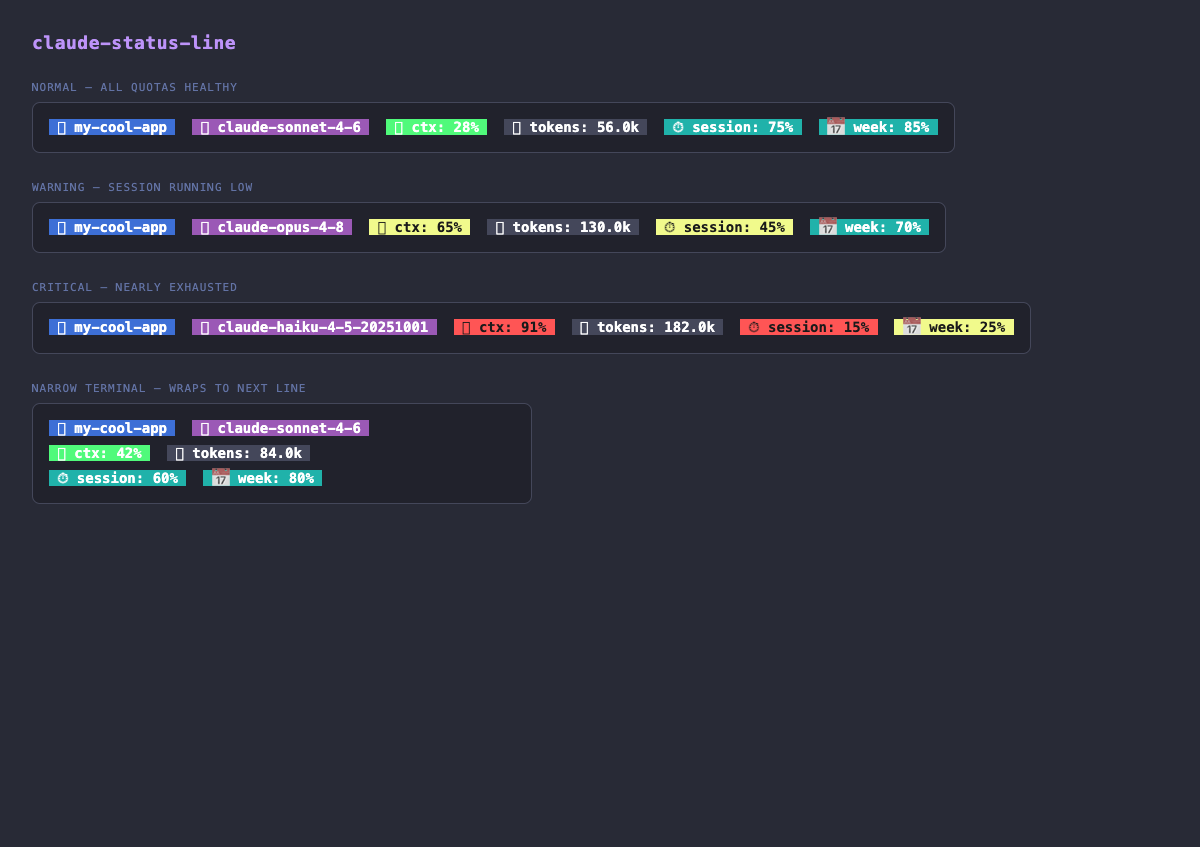
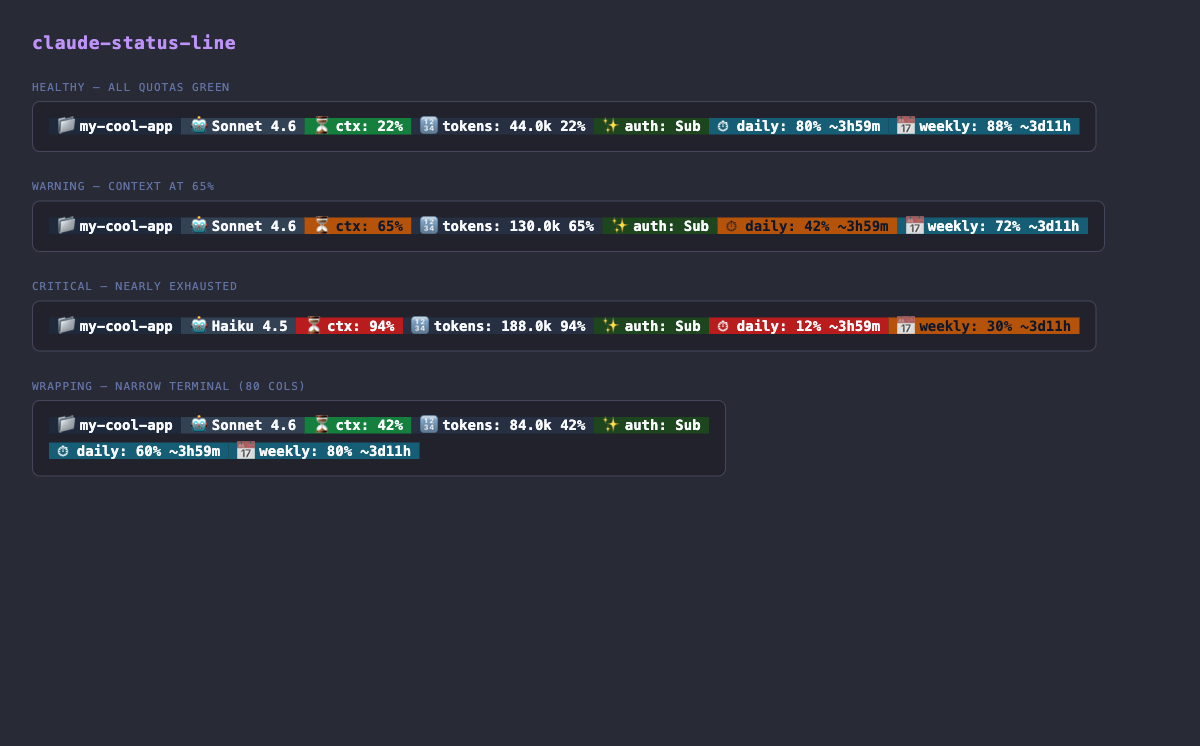
master

Changed region(s): [[0.0308, 0.2158, 0.925, 0.4625], [0.0308, 0.0308, 0.925, 0.185], [0.0308, 0.4933, 0.6167, 0.6166]]

diff --git a/scripts/preview.ts b/scripts/preview.ts
@@ -7,31 +7,36 @@
 
 import { StatusParser } from '../src/statusParser.ts';
 import { StatusRenderer } from '../src/statusRenderer.ts';
+import { ConfigManager } from '../src/configManager.ts';
 import * as fs from 'fs';
 import * as path from 'path';
 
+const NOW_SECS = Math.floor(Date.now() / 1000);
+const RESET_DAILY = NOW_SECS + 4 * 3600;
+const RESET_WEEKLY = NOW_SECS + 3 * 86400 + 12 * 3600;
+
 const SCENARIOS: Array<{ title: string; input: object; width?: number }> = [
   {
-    title: 'Normal — all quotas healthy',
+    title: 'Healthy — all quotas green',
     input: {
       cwd: '/Users/barnu/projects/my-cool-app',
-      model: 'claude-sonnet-4-6',
-      context_window: { percentage: 28, tokens: 56000, size: 200000 },
+      model: { id: 'claude-sonnet-4-6', display_name: 'Sonnet 4.6' },
+      context_window: { used_percentage: 22, total_input_tokens: 44000, context_window_size: 200000 },
       rate_limits: {
-        session: { used: 25, limit: 100 },
-        week: { used: 15, limit: 100 },
+        five_hour: { used_percentage: 20, resets_at: RESET_DAILY },
+        seven_day: { used_percentage: 12, resets_at: RESET_WEEKLY },
       },
     },
   },
   {
-    title: 'Warning — session running low',
+    title: 'Warning — context at 65%',
     input: {
       cwd: '/Users/barnu/projects/my-cool-app',
-      model: 'claude-opus-4-8',
-      context_window: { percentage: 65, tokens: 130000, size: 200000 },
+      model: { id: 'claude-sonnet-4-6', display_name: 'Sonnet 4.6' },
+      context_window: { used_percentage: 65, total_input_tokens: 130000, context_window_size: 200000 },
       rate_limits: {
-        session: { used: 55, limit: 100 },
-        week: { used: 30, limit: 100 },
+        five_hour: { used_percentage: 58, resets_at: RESET_DAILY },
+        seven_day: { used_percentage: 28, resets_at: RESET_WEEKLY },
       },
     },
   },
@@ -39,32 +44,33 @@ const SCENARIOS: Array<{ title: string; input: object; width?: number }> = [
     title: 'Critical — nearly exhausted',
     input: {
       cwd: '/Users/barnu/projects/my-cool-app',
-      model: 'claude-haiku-4-5-20251001',
-      context_window: { percentage: 91, tokens: 182000, size: 200000 },
+      model: { id: 'claude-haiku-4-5-20251001', display_name: 'Haiku 4.5' },
+      context_window: { used_percentage: 94, total_input_tokens: 188000, context_window_size: 200000 },
       rate_limits: {
-        session: { used: 85, limit: 100 },
-        week: { used: 75, limit: 100 },
+        five_hour: { used_percentage: 88, resets_at: RESET_DAILY },
+        seven_day: { used_percentage: 70, resets_at: RESET_WEEKLY },
       },
     },
   },
   {
-    title: 'Narrow terminal — wraps to next line',
+    title: 'Wrapping — narrow terminal (80 cols)',
     input: {
       cwd: '/Users/barnu/projects/my-cool-app',
-      model: 'claude-sonnet-4-6',
-      context_window: { percentage: 42, tokens: 84000, size: 200000 },
+      model: { id: 'claude-sonnet-4-6', display_name: 'Sonnet 4.6' },
+      context_window: { used_percentage: 42, total_input_tokens: 84000, context_window_size: 200000 },
       rate_limits: {
-        session: { used: 40, limit: 100 },
-        week: { used: 20, limit: 100 },
+        five_hour: { used_percentage: 40, resets_at: RESET_DAILY },
+        seven_day: { used_percentage: 20, resets_at: RESET_WEEKLY },
       },
     },
-    width: 50,
+    width: 80,
   },
 ];
 
 class PreviewGenerator {
   private readonly parser = new StatusParser();
   private readonly renderer = new StatusRenderer();
+  private readonly config = ConfigManager.DEFAULT_CONFIG;
 
   generate(): string {
     const scenarios = SCENARIOS.map(s => this.renderScenario(s));
@@ -73,8 +79,8 @@ class PreviewGenerator {
 
   private renderScenario(scenario: { title: string; input: object; width?: number }): string {
     const status = this.parser.parse(JSON.stringify(scenario.input));
-    const segments = this.parser.buildSegments(status);
-    const ansiOutput = this.renderer.render(segments, scenario.width ?? 0);
+    const segments = this.parser.buildSegments(status, this.config);
+    const ansiOutput = this.renderer.render(segments, scenario.width ?? 0, this.config);
     const htmlLines = ansiOutput.split('\n').map(line => this.ansiToHtml(line));
     return `
       <div class="scenario">
@@ -86,31 +92,15 @@ class PreviewGenerator {
   }
 
   private ansiToHtml(line: string): string {
-    const colorMap: Record<string, string> = {
-      '30': 'color:#1a1a1a',
-      '31': 'color:#ff5555',
-      '32': 'color:#50fa7b',
-      '33': 'color:#f1fa8c',
-      '34': 'color:#82aaff',
-      '35': 'color:#c792ea',
-      '36': 'color:#89ddff',
-      '37': 'color:#f8f8f2',
-      '90': 'color:#6272a4',
-      '97': 'color:#ffffff',
-      '40': 'background:#1a1a1a',
-      '41': 'background:#ff5555',
-      '42': 'background:#50fa7b',
-      '43': 'background:#f1fa8c',
-      '44': 'background:#3d6fd6',
-      '45': 'background:#9b59b6',
-      '46': 'background:#20b2aa',
-      '47': 'background:#f8f8f2',
-      '100': 'background:#44475a',
-    };
-
     let html = '';
-    let styleStack: string[] = [];
+    let fg = '';
+    let bg = '';
+    let bold = false;
     let openSpan = false;
+
+    const closeSpan = () => {
+      if (openSpan) { html += '</span>'; openSpan = false; }
+    };
 
     const parts = line.split(/\x1b\[([0-9;]*)m/);
 
@@ -118,37 +108,35 @@ class PreviewGenerator {
       if (i % 2 === 0) {
         const text = parts[i] ?? '';
         if (text) {
-          if (openSpan) { html += '</span>'; }
-          const style = styleStack.join(';');
-          if (style) {
-            html += `<span style="${style}">`;
+          closeSpan();
+          const styles: string[] = [];
+          if (bg) styles.push(`background:${bg}`);
+          if (fg) styles.push(`color:${fg}`);
+          if (bold) styles.push('font-weight:bold');
+          if (styles.length) {
+            html += `<span style="${styles.join(';')}">`;
             openSpan = true;
-          } else {
-            openSpan = false;
           }
           html += this.escape(text);
         }
       } else {
         const code = parts[i] ?? '';
         if (code === '0' || code === '') {
-          styleStack = [];
-        } else if (code === '1') {
-          styleStack = styleStack.filter(s => !s.startsWith('font-weight'));
-          styleStack.push('font-weight:bold');
+          fg = ''; bg = ''; bold = false;
         } else {
-          const styles = code.split(';')
-            .map(c => colorMap[c])
-            .filter((s): s is string => Boolean(s));
-          for (const s of styles) {
-            const prop = s.split(':')[0];
-            styleStack = styleStack.filter(existing => !existing.startsWith(prop ?? ''));
-            styleStack.push(s);
+          const nums = code.split(';').map(Number);
+          if (nums[0] === 1) {
+            bold = true;
+          } else if (nums[0] === 38 && nums[1] === 2 && nums.length >= 5) {
+            fg = `rgb(${nums[2]},${nums[3]},${nums[4]})`;
+          } else if (nums[0] === 48 && nums[1] === 2 && nums.length >= 5) {
+            bg = `rgb(${nums[2]},${nums[3]},${nums[4]})`;
           }
         }
       }
     }
 
-    if (openSpan) { html += '</span>'; }
+    closeSpan();
     return html || '&nbsp;';
   }
 

diff --git a/docs/preview.html b/docs/preview.html
@@ -46,32 +46,31 @@
   <h1>claude-status-line</h1>
   
       <div class="scenario">
-        <div class="scenario-title">Normal — all quotas healthy</div>
+        <div class="scenario-title">Healthy — all quotas green</div>
         <div class="terminal">
-          <div class="term-line"><span style="background:#3d6fd6;color:#ffffff;font-weight:bold"> 󰉋 my-cool-app </span>  <span style="background:#9b59b6;color:#ffffff;font-weight:bold"> 󰚩 claude-sonnet-4-6 </span>  <span style="background:#50fa7b;color:#ffffff;font-weight:bold"> 󰔚 ctx: 28% </span>  <span style="background:#44475a;color:#ffffff;font-weight:bold"> 󰑃 tokens: 56.0k </span>  <span style="background:#20b2aa;color:#ffffff;font-weight:bold"> ⏱ session: 75% </span>  <span style="background:#20b2aa;color:#ffffff;font-weight:bold"> 📅 week: 85% </span></div>
+          <div class="term-line"><span style="background:rgb(30,41,59);color:rgb(248,250,252);font-weight:bold"> 📁 my-cool-app </span><span style="background:rgb(51,65,85);color:rgb(248,250,252);font-weight:bold"> 🤖 Sonnet 4.6 </span><span style="background:rgb(21,128,61);color:rgb(248,250,252);font-weight:bold"> ⏳ ctx: 22% </span><span style="background:rgb(39,47,66);color:rgb(248,250,252);font-weight:bold"> 🔢 tokens: 44.0k 22% </span><span style="background:rgb(30,70,30);color:rgb(248,250,252);font-weight:bold"> ✨ auth: Sub </span><span style="background:rgb(21,94,117);color:rgb(248,250,252);font-weight:bold"> ⏱ daily: 80% ~3h59m </span><span style="background:rgb(21,94,117);color:rgb(248,250,252);font-weight:bold"> 📅 weekly: 88% ~3d11h </span></div>
         </div>
       </div>
   
       <div class="scenario">
-        <div class="scenario-title">Warning — session running low</div>
+        <div class="scenario-title">Warning — context at 65%</div>
         <div class="terminal">
-          <div class="term-line"><span style="background:#3d6fd6;color:#ffffff;font-weight:bold"> 󰉋 my-cool-app </span>  <span style="background:#9b59b6;color:#ffffff;font-weight:bold"> 󰚩 claude-opus-4-8 </span>  <span style="background:#f1fa8c;color:#1a1a1a;font-weight:bold"> 󰔚 ctx: 65% </span>  <span style="background:#44475a;color:#ffffff;font-weight:bold"> 󰑃 tokens: 130.0k </span>  <span style="background:#f1fa8c;color:#1a1a1a;font-weight:bold"> ⏱ session: 45% </span>  <span style="background:#20b2aa;color:#ffffff;font-weight:bold"> 📅 week: 70% </span></div>
+          <div class="term-line"><span style="background:rgb(30,41,59);color:rgb(248,250,252);font-weight:bold"> 📁 my-cool-app </span><span style="background:rgb(51,65,85);color:rgb(248,250,252);font-weight:bold"> 🤖 Sonnet 4.6 </span><span style="background:rgb(180,83,9);color:rgb(15,23,42);font-weight:bold"> ⏳ ctx: 65% </span><span style="background:rgb(39,47,66);color:rgb(248,250,252);font-weight:bold"> 🔢 tokens: 130.0k 65% </span><span style="background:rgb(30,70,30);color:rgb(248,250,252);font-weight:bold"> ✨ auth: Sub </span><span style="background:rgb(180,83,9);color:rgb(15,23,42);font-weight:bold"> ⏱ daily: 42% ~3h59m </span><span style="background:rgb(21,94,117);color:rgb(248,250,252);font-weight:bold"> 📅 weekly: 72% ~3d11h </span></div>
         </div>
       </div>
   
       <div class="scenario">
         <div class="scenario-title">Critical — nearly exhausted</div>
         <div class="terminal">
-          <div class="term-line"><span style="background:#3d6fd6;color:#ffffff;font-weight:bold"> 󰉋 my-cool-app </span>  <span style="background:#9b59b6;color:#ffffff;font-weight:bold"> 󰚩 claude-haiku-4-5-20251001 </span>  <span style="background:#ff5555;color:#1a1a1a;font-weight:bold"> 󰔚 ctx: 91% </span>  <span style="background:#44475a;color:#ffffff;font-weight:bold"> 󰑃 tokens: 182.0k </span>  <span style="background:#ff5555;color:#1a1a1a;font-weight:bold"> ⏱ session: 15% </span>  <span style="background:#f1fa8c;color:#1a1a1a;font-weight:bold"> 📅 week: 25% </span></div>
+          <div class="term-line"><span style="background:rgb(30,41,59);color:rgb(248,250,252);font-weight:bold"> 📁 my-cool-app </span><span style="background:rgb(51,65,85);color:rgb(248,250,252);font-weight:bold"> 🤖 Haiku 4.5 </span><span style="background:rgb(185,28,28);color:rgb(248,250,252);font-weight:bold"> ⏳ ctx: 94% </span><span style="background:rgb(39,47,66);color:rgb(248,250,252);font-weight:bold"> 🔢 tokens: 188.0k 94% </span><span style="background:rgb(30,70,30);color:rgb(248,250,252);font-weight:bold"> ✨ auth: Sub </span><span style="background:rgb(185,28,28);color:rgb(248,250,252);font-weight:bold"> ⏱ daily: 12% ~3h59m </span><span style="background:rgb(180,83,9);color:rgb(15,23,42);font-weight:bold"> 📅 weekly: 30% ~3d11h </span></div>
         </div>
       </div>
   
       <div class="scenario">
-        <div class="scenario-title">Narrow terminal — wraps to next line</div>
+        <div class="scenario-title">Wrapping — narrow terminal (80 cols)</div>
         <div class="terminal">
-          <div class="term-line"><span style="background:#3d6fd6;color:#ffffff;font-weight:bold"> 󰉋 my-cool-app </span>  <span style="background:#9b59b6;color:#ffffff;font-weight:bold"> 󰚩 claude-sonnet-4-6 </span></div>
-          <div class="term-line"><span style="background:#50fa7b;color:#ffffff;font-weight:bold"> 󰔚 ctx: 42% </span>  <span style="background:#44475a;color:#ffffff;font-weight:bold"> 󰑃 tokens: 84.0k </span></div>
-          <div class="term-line"><span style="background:#20b2aa;color:#ffffff;font-weight:bold"> ⏱ session: 60% </span>  <span style="background:#20b2aa;color:#ffffff;font-weight:bold"> 📅 week: 80% </span></div>
+          <div class="term-line"><span style="background:rgb(30,41,59);color:rgb(248,250,252);font-weight:bold"> 📁 my-cool-app </span><span style="background:rgb(51,65,85);color:rgb(248,250,252);font-weight:bold"> 🤖 Sonnet 4.6 </span><span style="background:rgb(21,128,61);color:rgb(248,250,252);font-weight:bold"> ⏳ ctx: 42% </span><span style="background:rgb(39,47,66);color:rgb(248,250,252);font-weight:bold"> 🔢 tokens: 84.0k 42% </span><span style="background:rgb(30,70,30);color:rgb(248,250,252);font-weight:bold"> ✨ auth: Sub </span></div>
+          <div class="term-line"><span style="background:rgb(21,94,117);color:rgb(248,250,252);font-weight:bold"> ⏱ daily: 60% ~3h59m </span><span style="background:rgb(21,94,117);color:rgb(248,250,252);font-weight:bold"> 📅 weekly: 80% ~3d11h </span></div>
         </div>
       </div>
 </body>

diff --git a/src/statusParser.ts b/src/statusParser.ts
@@ -56,8 +56,8 @@ export class StatusParser {
     if (visibility.tokens) {
       const tokenCount = this.extractTokenCount(status);
       if (tokenCount !== null) {
-        const bar = visibility.context && contextPercent !== null ? ` ${this.buildMiniBar(contextPercent)}` : '';
-        const value = `${this.formatTokens(tokenCount)}${bar}`;
+        const pctSuffix = visibility.context && contextPercent !== null ? ` ${contextPercent}%` : '';
+        const value = `${this.formatTokens(tokenCount)}${pctSuffix}`;
         segments.push({ icon: '🔢 ', label: 'tokens', value, fg: colors.tokens.fg, bg: colors.tokens.bg });
       }
     }

diff --git a/src/index.ts b/src/index.ts
@@ -53,7 +53,7 @@ class Application {
       return process.stdout.columns;
     }
     const envCols = parseInt(process.env['COLUMNS'] ?? '', 10);
-    return isNaN(envCols) ? 0 : envCols;
+    return isNaN(envCols) ? 120 : envCols;
   }
 
   private async readStdin(): Promise<string> {